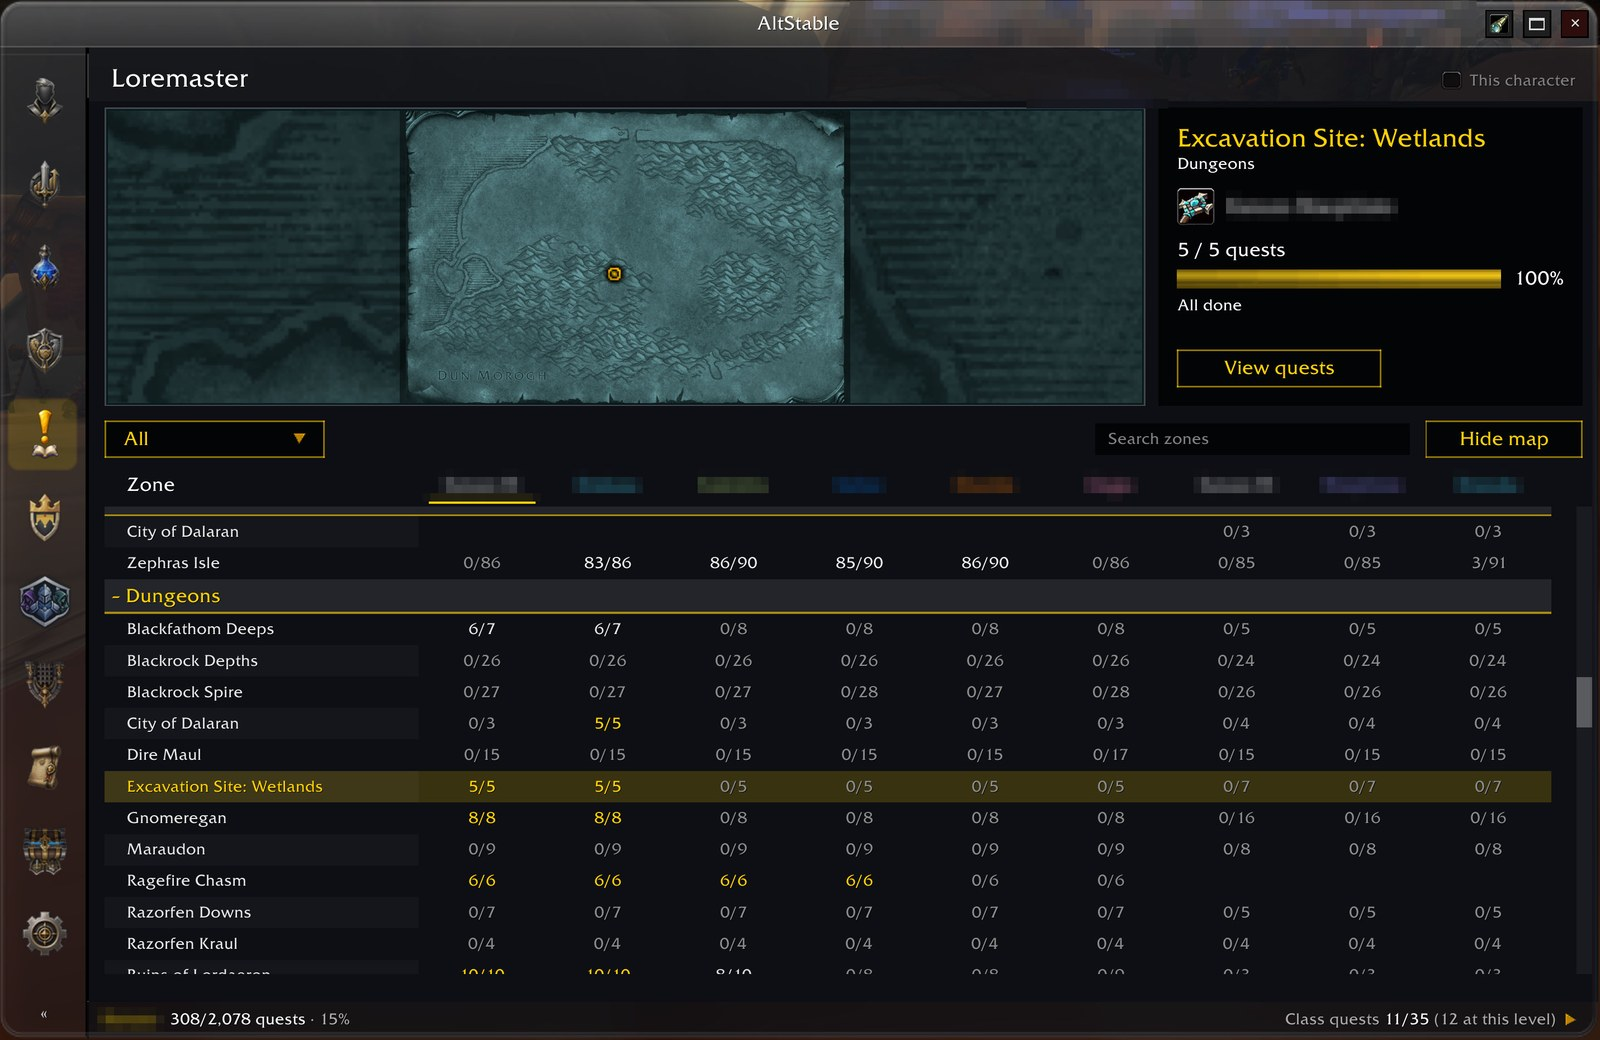
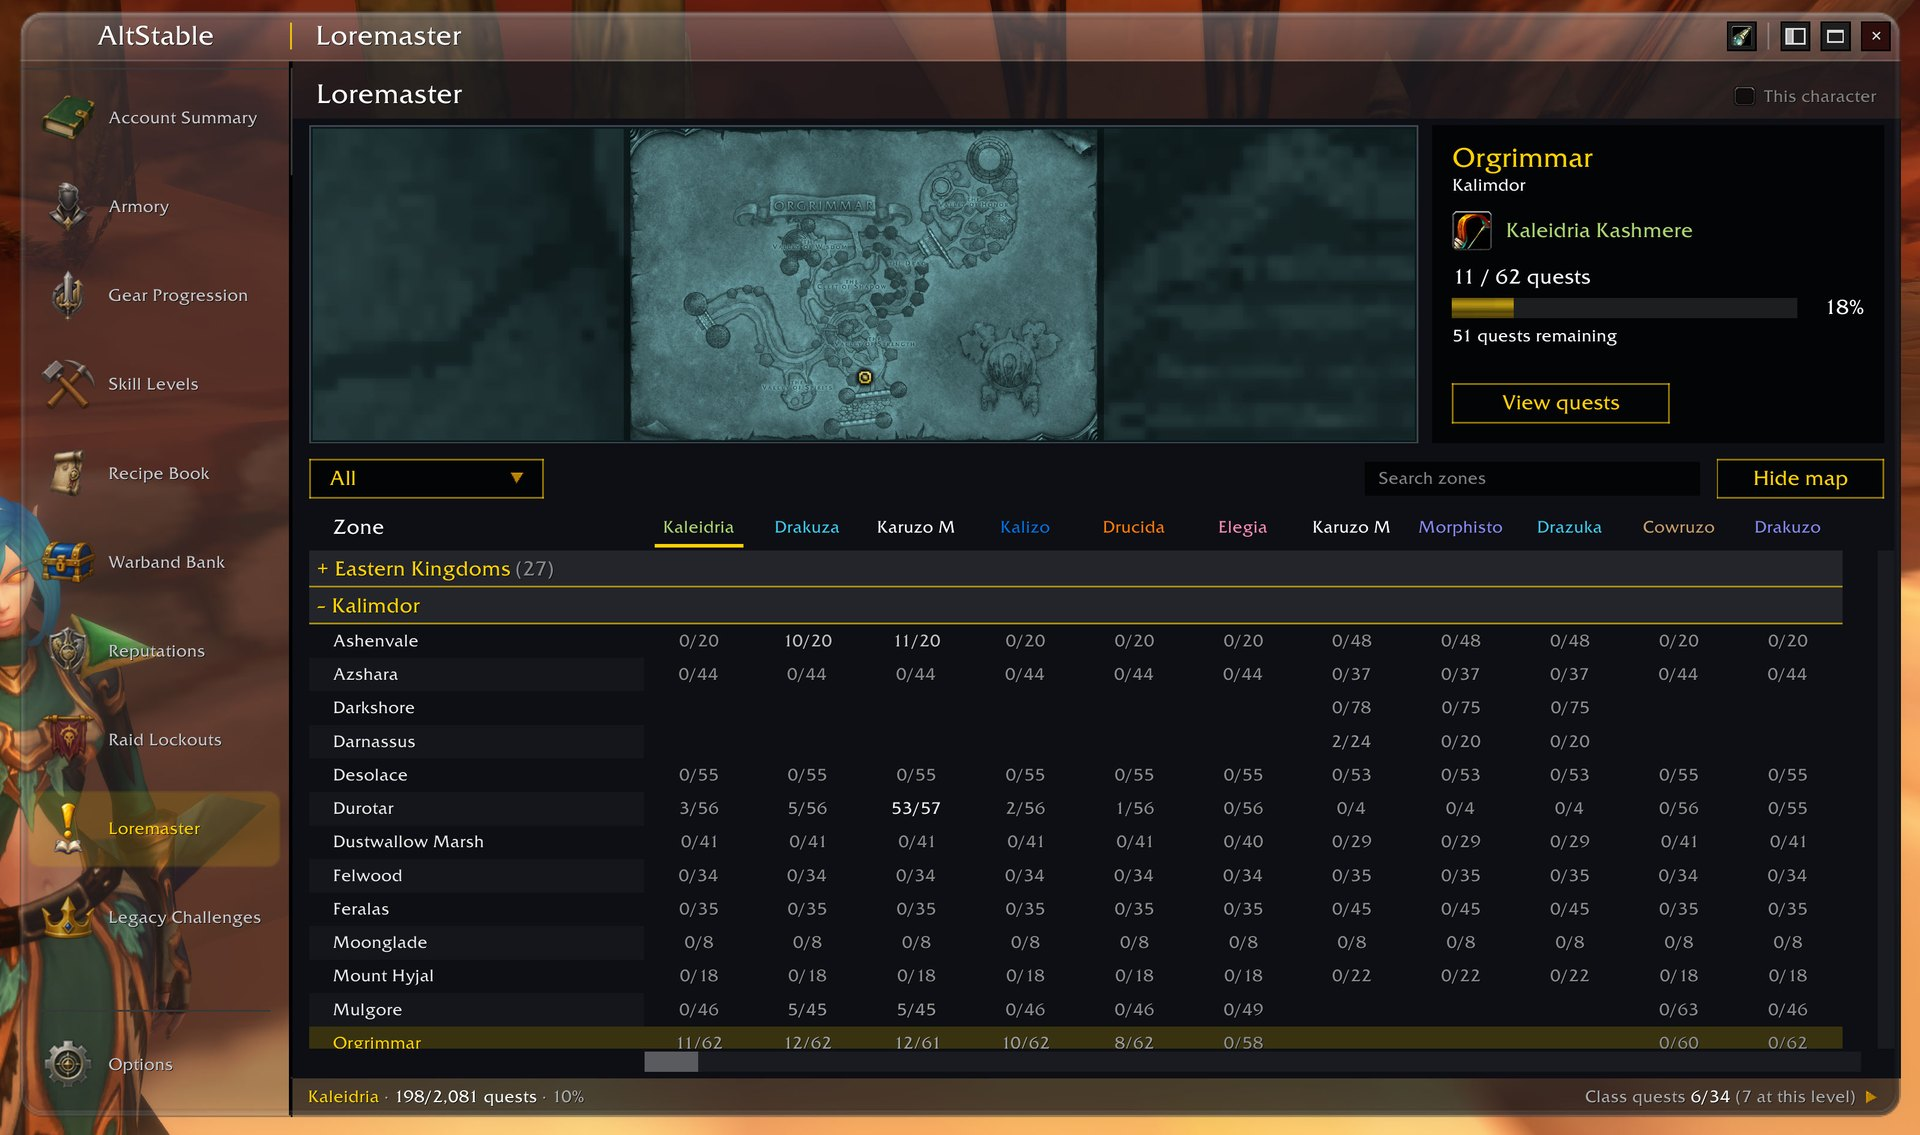
README: new screenshots, and the tabs by their new names (#528)
The owner's screenshots of the new title bar and sidebar, cropped to the
window: nine images replaced (sheet, gear, reputations, Recipe Book,
Warband Bank combined, Legacy Challenges, Loremaster, the Armory camp and
cards) and two added (skill levels, Raid Lockouts). The tabs are named as
#529 names them, and the alt texts describe the new pictures.

diff --git a/README.md b/README.md
@@ -6,11 +6,11 @@ Looking for an Altoholic alternative for WoW Forever? AltStable brings your char
 inventory, professions and progression together in one window, so you can check what your alts
 have without logging into each of them.
 
-Everything below works with the addon on its own. Character portraits for the Roster are an
+Everything below works with the addon on its own. Character portraits for the Armory are an
 optional extra that needs the free [AltStable Companion](#optional-character-portraits-and-the-companion)
 app.
 
-![The sheet: one row per character with class, race, ruleset, level, item level, guild, rested XP, gold and when each was last played, with totals along the bottom](https://raw.githubusercontent.com/Spotnick2/AltStable/main/docs/images/sheet.jpg)
+![The Account Summary: one row per character with its class, level, spec, item level, rested XP, gold, bag space, hearthstone and when it was last online, grouped by faction and ruleset, with the totals along the bottom and the tabs down the side](https://raw.githubusercontent.com/Spotnick2/AltStable/main/docs/images/sheet.jpg)
 
 *The sheet: every character at a glance, with total levels, average item level and total gold
 along the bottom. (Names blurred in all screenshots.)*
@@ -23,21 +23,21 @@ doesn't move it anywhere, and whether you can pass it on still depends on the ga
 
 ### Which alt has my materials?
 
-The **Warband** tab lays out every item in all your characters' bags, banks and mailboxes like a
+The **Warband Bank** tab lays out every item in all your characters' bags, banks and mailboxes like a
 warband bank, with tabs you can arrange yourself. Show one tab at a time, or three side by side.
 Hover an item to see who holds how many, split between bags, bank and mail. You can show everyone on your
 current ruleset or a chosen one, of your faction, the other or both, or only the character you are on.
 Both filters are kept between sessions, and a reset button puts them back.
 
-![The Warband tab's Combined view: Trade Goods, Consumables and Equipment side by side, gathered from every character's bags and banks, with the tooltip-count option, the ruleset and faction menus, the reset button and the tab list down the side](https://raw.githubusercontent.com/Spotnick2/AltStable/main/docs/images/warband-combined.jpg)
+![The Warband Bank tab's Combined view: Trade Goods, Consumables and Equipment side by side, gathered from every character's bags and banks, with the tooltip-count option, the ruleset and faction menus and the tab list down the side](https://raw.githubusercontent.com/Spotnick2/AltStable/main/docs/images/warband-combined.jpg)
 
-*The Warband tab, Combined view: everyone's trade goods, consumables and equipment in one place.
+*The Warband Bank tab, Combined view: everyone's trade goods, consumables and equipment in one place.
 Hover any item to see who holds it.*
 
 Item tooltips everywhere in the game (your bags, merchants, links) show the same counts: the
 total, then who holds how many. It's on unless Bagnon, Baganator or Altoholic is installed, since
 they show their own counts. **Show who has this item and how many** in Options (**Show character
-counts in tooltips** in the Warband tab) turns it on or off either way.
+counts in tooltips** in the Warband Bank tab) turns it on or off either way.
 
 **Options, General, Item tooltips** decides how they look, with a live preview beside it:
 - **Tooltip layout:** *One list*, everyone together. *Separate groups*, the default: the characters
@@ -60,15 +60,15 @@ rather than in these counts.
 
 ### Who knows this recipe?
 
-The **Professions** tab shows which character knows which recipe, the skill it needs and where
+The **Recipe Book** tab shows which character knows which recipe, the skill it needs and where
 it comes from (trainer, vendor, quest or drop). Filter for the recipes you know, the ones you're
 missing, or the ones nobody has yet; the tab opens on the filter you last picked. Recipes the
 profession quartermasters sell for Merchant's Favor show their price, and the **Favor** filter
 lists them: with an alt picked and **Missing**, it's what that alt could buy.
 
-![The Professions tab for Cooking: each recipe with its skill level, its source and which characters know it, a progress card per cook, and a recipe tooltip listing its reagents](https://raw.githubusercontent.com/Spotnick2/AltStable/main/docs/images/professions.jpg)
+![The Recipe Book tab for Cooking: each recipe with its skill level, its source and which characters know it, and a progress card per cook](https://raw.githubusercontent.com/Spotnick2/AltStable/main/docs/images/professions.jpg)
 
-*The Professions tab: who knows each recipe, and where to get the ones nobody has.*
+*The Recipe Book tab: who knows each recipe, and where to get the ones nobody has.*
 
 Recipe items in the game (at a vendor, in the auction house) can also show who already knows
 them, who has the skill to learn them and whose skill is too low. Crafted items show who can make
@@ -79,13 +79,13 @@ the skill thresholds, where the recipe comes from, who knows it and its reagents
 
 ### Which recipes do my alts still want?
 
-Star a recipe for an alt in the Professions tab, and the **Wishlist** filter lists what it wants.
+Star a recipe for an alt in the Recipe Book tab, and the **Wishlist** filter lists what it wants.
 The recipe item's tooltip then says who wants it, until that alt learns it. Stars sync to your
 other accounts, and each alt's stars are set on the account it's played on.
 
 ### Do my characters already have the reagents?
 
-Hover a recipe in the Professions tab to see its reagents and how many your alts hold in their
+Hover a recipe in the Recipe Book tab to see its reagents and how many your alts hold in their
 bags and banks. For each alt who knows it, you see whether it has them or what it's short of. The
 **Craftable** filter lists the recipes an alt knows and has the reagents for. It counts the alt's
 own reagents and every other alt's, except an alt known to be of the other faction or on another
@@ -100,13 +100,17 @@ tells you when one is ready.
 
 ### Which characters are saved to a raid, and when do they reset?
 
-The **Raids** tab shows who is saved to which raid, how many bosses each has killed, and when
+The **Raid Lockouts** tab shows who is saved to which raid, how many bosses each has killed, and when
 each lockout resets. Hover a cell for the boss-by-boss detail. It lists your level-60
 characters, plus anyone else who holds a lockout.
 
+![The Raid Lockouts tab: Barrow Deeps, Hyjal Summit and Onyxia's Lair, with the active saves and the characters tracked along the bottom](https://raw.githubusercontent.com/Spotnick2/AltStable/main/docs/images/raids.jpg)
+
+*The Raid Lockouts tab, waiting for your first level-60 save.*
+
 ### How far along are my Legacy Challenges?
 
-The **Legacy** tab shows Forever's Legacy Challenges for your whole Battle.net account: their
+The **Legacy Challenges** tab shows Forever's Legacy Challenges for your whole Battle.net account: their
 progress is shared by every character on it, so any of them shows the same.
 
 - **Classes** and **Tradeskills**: each class's level 25, 45 and 60 challenges with your highest
@@ -118,9 +122,9 @@ progress is shared by every character on it, so any of them shows the same.
 - **Legacy Points** along the bottom: your total, a bar coloured by reward, and the next reward
   with the points still to go.
 
-![The Legacy tab: a Classes grid and a Tradeskills grid with each tier's progress, the Dungeons and Raids challenges with their parts, and the Legacy Points bar along the bottom](https://raw.githubusercontent.com/Spotnick2/AltStable/main/docs/images/legacy.jpg)
+![The Legacy Challenges tab: a Classes grid and a Tradeskills grid with each tier's progress, the Dungeons and Raids challenges with their parts, and the Legacy Points bar along the bottom](https://raw.githubusercontent.com/Spotnick2/AltStable/main/docs/images/legacy.jpg)
 
-*The Legacy tab: the challenges, the alt closest to each one, and the points along the bottom.*
+*The Legacy Challenges tab: the challenges, the alt closest to each one, and the points along the bottom.*
 
 Star the challenges you're after (click a grid cell, or the star on a row), and the **Bucket
 List** view lists them with the character closest to each, a progress bar and what's left ("Gain
@@ -155,7 +159,7 @@ can ever do there, for its faction, race and class, at any level.
   counted under another zone names it ("counted under Blackrock Spire"). A raid with no quest counted for a character shows its steps
   done, dimmed, such as "0/15". The steps stay counted once, under their own zones.
 
-![The Loremaster tab: a map zoomed into the Wetlands with Excavation Site's entrance pinned, a card with 5 of 5 quests done, and a grid of dungeons with each character's progress](https://raw.githubusercontent.com/Spotnick2/AltStable/main/docs/images/loremaster.jpg)
+![The Loremaster tab: the map of Orgrimmar, a card with 11 of 62 quests done, and the zones of Kalimdor with each character's progress](https://raw.githubusercontent.com/Spotnick2/AltStable/main/docs/images/loremaster.jpg)
 
 *The Loremaster tab: a dungeon's entrance on the map, its card, and every character's progress.*
 
@@ -193,6 +197,10 @@ total, and the per-character list on hover. Left-click opens AltStable, right-cl
 ![The sheet's gear view: the item level of every equipped slot for each character, coloured by quality](https://raw.githubusercontent.com/Spotnick2/AltStable/main/docs/images/sheet-gear.jpg)
 
 *Gear: the item level in every slot, for every character.*
+
+![The sheet's skill view: each character's level in every profession and secondary skill](https://raw.githubusercontent.com/Spotnick2/AltStable/main/docs/images/sheet-skills.jpg)
+
+*Skill levels: every profession and secondary skill, for every character.*
 
 ![The sheet's reputation view: each character's standing with Vanilla and Forever factions](https://raw.githubusercontent.com/Spotnick2/AltStable/main/docs/images/sheet-reputations.jpg)
 
@@ -234,9 +242,9 @@ and it doesn't try to match every Altoholic feature.
 3. **Log in on each character once.** AltStable can only read the character you are playing. It
    records it at login and keeps it up to date while you play. A character you haven't logged
    into since installing isn't there yet.
-4. **Open your bank and a mailbox once** on each character for the Warband tab. The game only
+4. **Open your bank and a mailbox once** on each character for the Warband Bank tab. The game only
    lets an addon read them while they're open. Bags are read without asking.
-5. **Open each profession window once** for the Professions tab to know its recipes. Until then,
+5. **Open each profession window once** for the Recipe Book tab to know its recipes. Until then,
    the profession shows as "not scanned".
 
 Raid lockouts come from the game's saved-instance list, which is read at login. Where something
@@ -262,29 +270,29 @@ installed and need to be **online at the same time**.
 
 ## Optional: character portraits and the Companion
 
-The **Roster** tab shows your characters as character cards, or standing together around a
+The **Armory** tab shows your characters as character cards, or standing together around a
 campfire in **camps** of four (up to 50 camps), each with its own backdrop. Click a character for its paper
 doll, stats and talents. **View** opens its talents in the game's own talent frame, read-only,
 as they were when it was last played.
 
-![The Roster's character cards: one full-length portrait per character with its level, and a plain card with the class icon for characters without a portrait yet](https://raw.githubusercontent.com/Spotnick2/AltStable/main/docs/images/roster-cards.jpg)
+![The Armory's character cards: one full-length portrait per character with its level, and a plain card with the class icon for characters without a portrait yet](https://raw.githubusercontent.com/Spotnick2/AltStable/main/docs/images/roster-cards.jpg)
 
 *Character cards. A character without a portrait gets a plain card with its class icon.*
 
-![A character opened from the Roster: its portrait with the equipped gear around it, and its gold, rested XP, health, mana, attributes and combat stats](https://raw.githubusercontent.com/Spotnick2/AltStable/main/docs/images/roster-character.jpg)
+![A character opened from the Armory: its portrait with the equipped gear around it, and its gold, rested XP, health, mana, attributes and combat stats](https://raw.githubusercontent.com/Spotnick2/AltStable/main/docs/images/roster-character.jpg)
 
 *Click a character for its paper doll and stats. The Audit tab beside Char lists its enchants.*
 
-![A camp in the Roster: four characters around a campfire in Dalaran, from portraits made by AltStable Companion, with the camp list beside it](https://raw.githubusercontent.com/Spotnick2/AltStable/main/docs/images/roster.jpg)
+![A camp in the Armory: four characters around a campfire at Mount Hyjal, from portraits made by AltStable Companion, with the camp list beside it](https://raw.githubusercontent.com/Spotnick2/AltStable/main/docs/images/roster.jpg)
 
-*Roster portraits from your own captures, made by the free AltStable Companion.*
+*Armory portraits from your own captures, made by the free AltStable Companion.*
 
 There are three separate pieces here, and only the first is required:
 
 | Piece | What it is | Do you need it? |
 |---|---|---|
-| **AltStable** (this addon) | Tracks and compares your characters in the game, including the Roster | Yes. It's complete on its own |
-| **[AltStable Companion](https://github.com/Spotnick2/AltStableCompanion/releases)** | A free Windows app that turns your portrait captures into the Roster's character portraits | Only for portraits in the Roster |
+| **AltStable** (this addon) | Tracks and compares your characters in the game, including the Armory | Yes. It's complete on its own |
+| **[AltStable Companion](https://github.com/Spotnick2/AltStableCompanion/releases)** | A free Windows app that turns your portrait captures into the Armory's character portraits | Only for portraits in the Armory |
 | **Enhanced portraits** | A setting in the Companion that asks the Codex CLI on your PC for a nicer picture of each portrait | No. It's off by default and uses your ChatGPT account's usage |
 
 The Companion makes ordinary portraits without any AI. Enhanced portraits are the only part that
@@ -296,7 +304,7 @@ uses one.
 
 ### Your first portrait
 
-Clicking the Roster's hint in the game shows the Companion's link.
+Clicking the Armory's hint in the game shows the Companion's link.
 
 1. Install and start **AltStable Companion** on your PC, and press **Start watching**.
 2. In the game, on the character you want, type `/alts portrait` (or press the spyglass
@@ -342,7 +350,7 @@ The Companion has its own **Check for updates** under **Help → About**.
 | `/alts` | Open the window |
 | `/alts help` | List the commands |
 | `/alts status` | Versions and counts, as one line to copy into a bug report |
-| `/alts portrait` | Capture this character for the Roster |
+| `/alts portrait` | Capture this character for the Armory |
 | `/alts sync` [name] | Sync now, with everyone or one character |
 | `/alts whitelist` [remove] [name] | Who you sync with |
 | `/alts auth`, `/alts allow` / `deny` &lt;name&gt; | Who may ask for your data |
